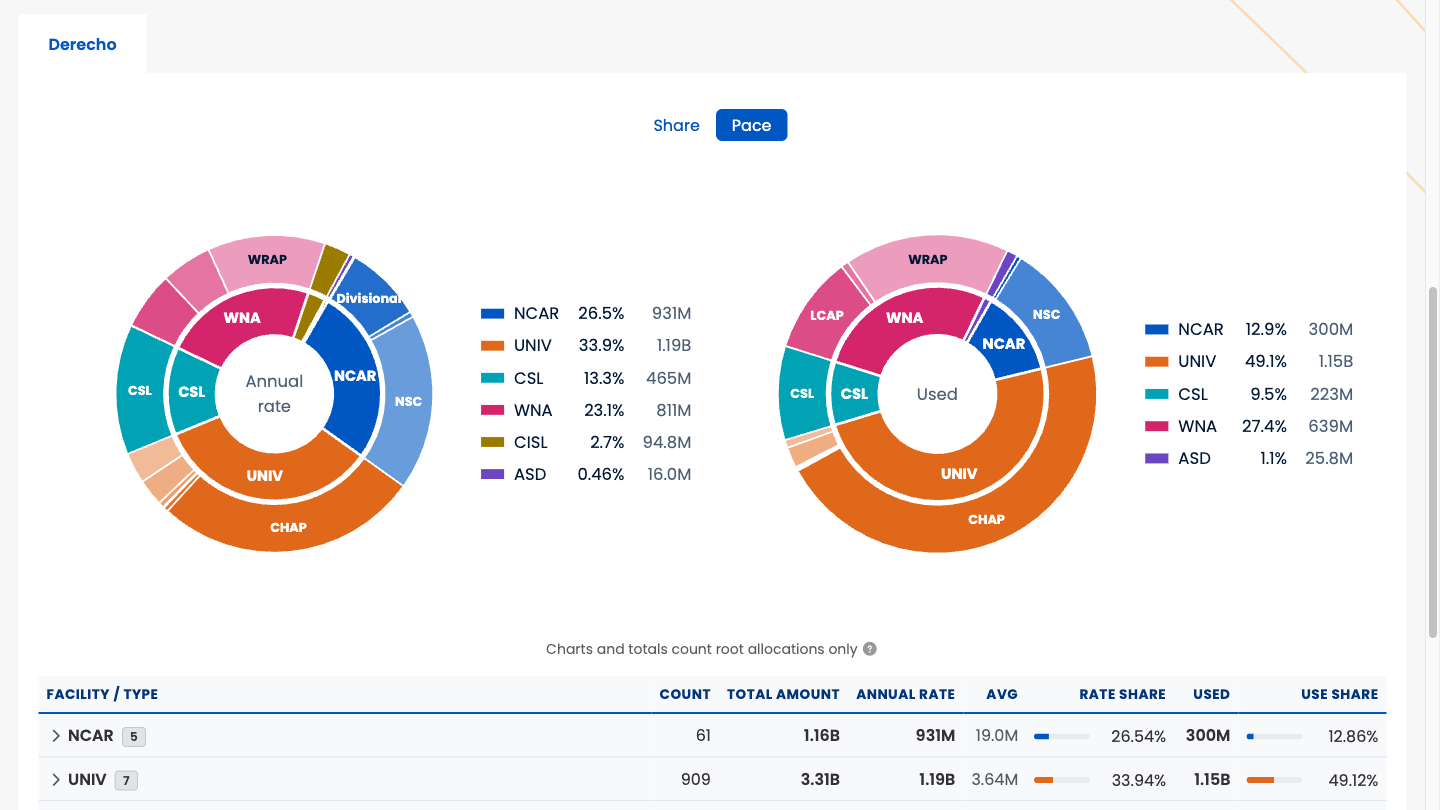
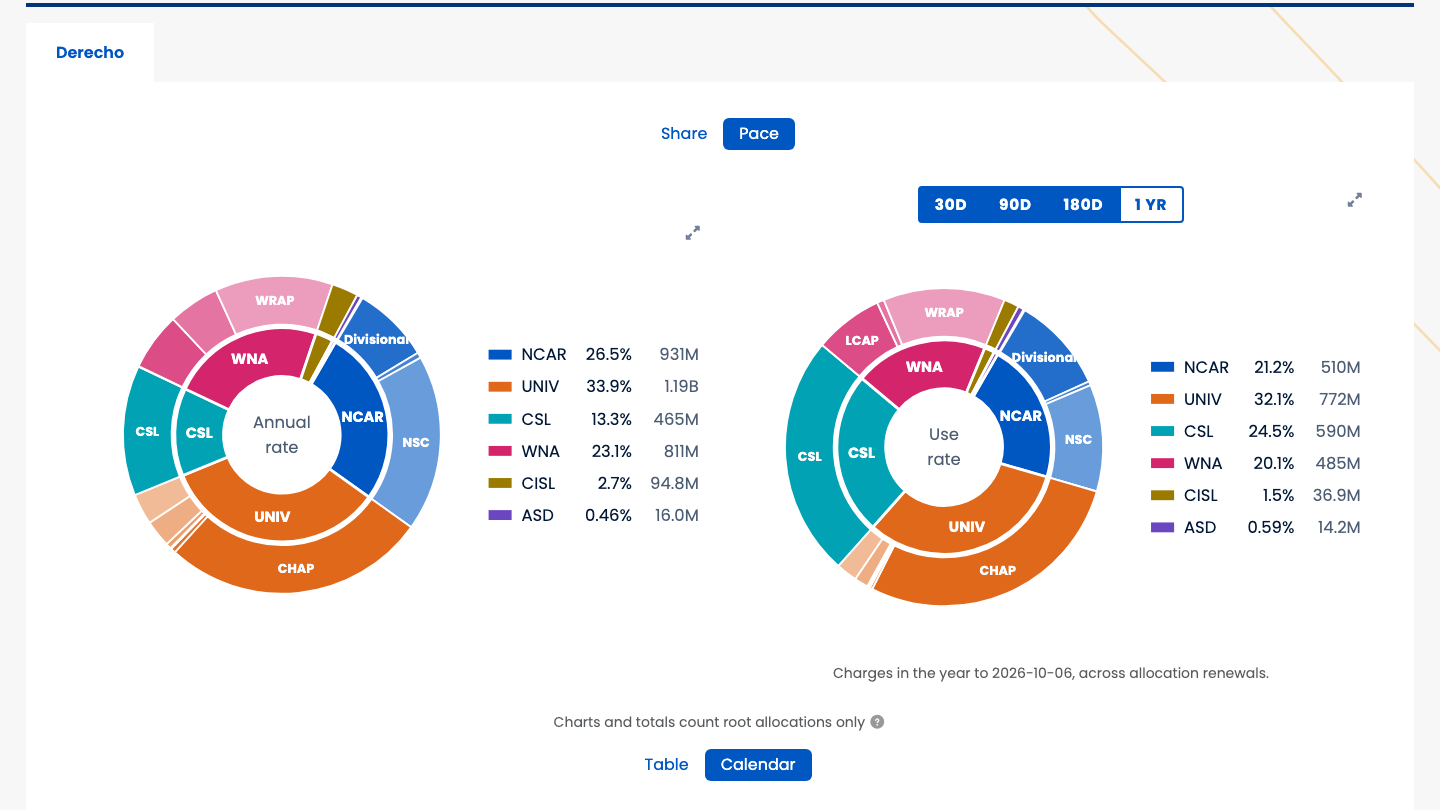
SAMuel deck: reshoot after the UX sweeps; production shots for Appendices E and F
## Summary

- **Reshot locally** (obfuscated 3307 DB, via `scripts/ui_snapshots_deck.json`, #747):
  tour-project, tour-usage, tour-allocations, tour-admin, tour-mobile-dark,
  jobs-activity, jobs-table, database-resources. They now show the sweeps
  #716 to #746: the new project card, usage grammar, Burn/Pace and window
  pills, the expand icon, and a phone shot with no mid-word splits.
- **A whole machine, by project** is now the full-screen facility / panel /
  project sunburst (#721).
- **Production, approved by Ben image by image** (read-only, redacted in the
  page, OCR-checked; `scripts/ui_snapshots_prod_deck.json`):
  - tour-status, with live collector data in place of the idle local zeros;
  - Appendix F image slides: the account-request queue, expirations, the
    delivery log, task runs, configuration, rate limits, last seen;
  - Appendix E: Filesystem Scans, the My Data panels for a whole filesystem.
- Not shot: Events (production has none) and Templates.
- Notes updated to match; `SAMUEL_PRESENTATION.md` logs the shoot and adds two
  UI findings to the fix-later list (a desktop mid-word title split; the
  Server Information note's font size).

### Test Results

- Rendered 1-overview, E-jobs, F-admin to html, pptx and pdf; `deck_qa.py`:
  slide counts agree across formats (19, 11, 18). Its one names finding is
  pre-existing (`_5-deployment.qmd:404`).
- `pytest tests/unit/gates/test_docs.py`: 5 passed.
[…]

diff --git a/docs/plans/SAMUEL_PRESENTATION.md b/docs/plans/SAMUEL_PRESENTATION.md
@@ -1129,6 +1129,20 @@ Each phase closes with render → visual review → commit in this repo
   - **Result:** all 60 footnotes in the sources are now in the pptx; 211 slides, unchanged.
   - The submodule pin moved to `05e7a0a`.
 
+- **2026-10-06, the reshoot after the UX sweeps (#716 to #746), and the production shoot.** Ben
+  approved production screenshots (2026-10-06): responsible obfuscation, not pedantic.
+  - **Tooling:** `ui_snapshots.py` page-shot recipes plus `--read-only`, `--redact` and `--verify`
+    (#747). `scripts/ui_snapshots_deck.json` reshoots the local shots in one command against
+    `ALT_SAM_DB_PORT=3307 scripts/dev_server_alt.sh <worktree> 5052`;
+    `scripts/ui_snapshots_prod_deck.json` takes the production ones.
+  - **Local, obfuscated DB:** the five tour shots, mobile-dark (no more mid-word splits), Job History
+    activity and table, `/database`. By Project is now the full-screen three-ring view (#721).
+  - **Production, approved by Ben image by image:** tour-status (live collectors, replacing the
+    idle local zeros), and new image slides for Appendix F (account requests, expirations, the
+    delivery log, task runs, configuration, rate limits, last seen) and E (Filesystem Scans).
+    No request was blocked, every shot passed OCR, and the session file was deleted after.
+  - **Not shot:** Events (production has none) and Templates.
+
 ## 11. Voice, tone and the fun
 
 **SAMuel = SAM, updated for extended lifecycle.** That backronym is the deck's premise and its
@@ -1522,3 +1536,8 @@ branch and PR against `staging`. Tick an item once its fix merges, and note the 
   (`admin.py:422,429`), which means "not found" elsewhere.
 - [ ] **No test keeps the CLI conventions in lockstep with `jobhist`,** although CLAUDE.md
   requires it.
+- [ ] **A long project title splits mid-word at desktop width** (found 2026-10-06, the production
+  shoot). Admin, Projects, Expirations: UCIE0001's title wraps "Wil l" at 1440px. The phone sweep
+  (#746) covered phone width only.
+- [ ] **Server Information's note renders larger than its card** (found 2026-10-06). Admin,
+  Configuration: the "Reflects the worker process..." line is body size inside a small-text card.
